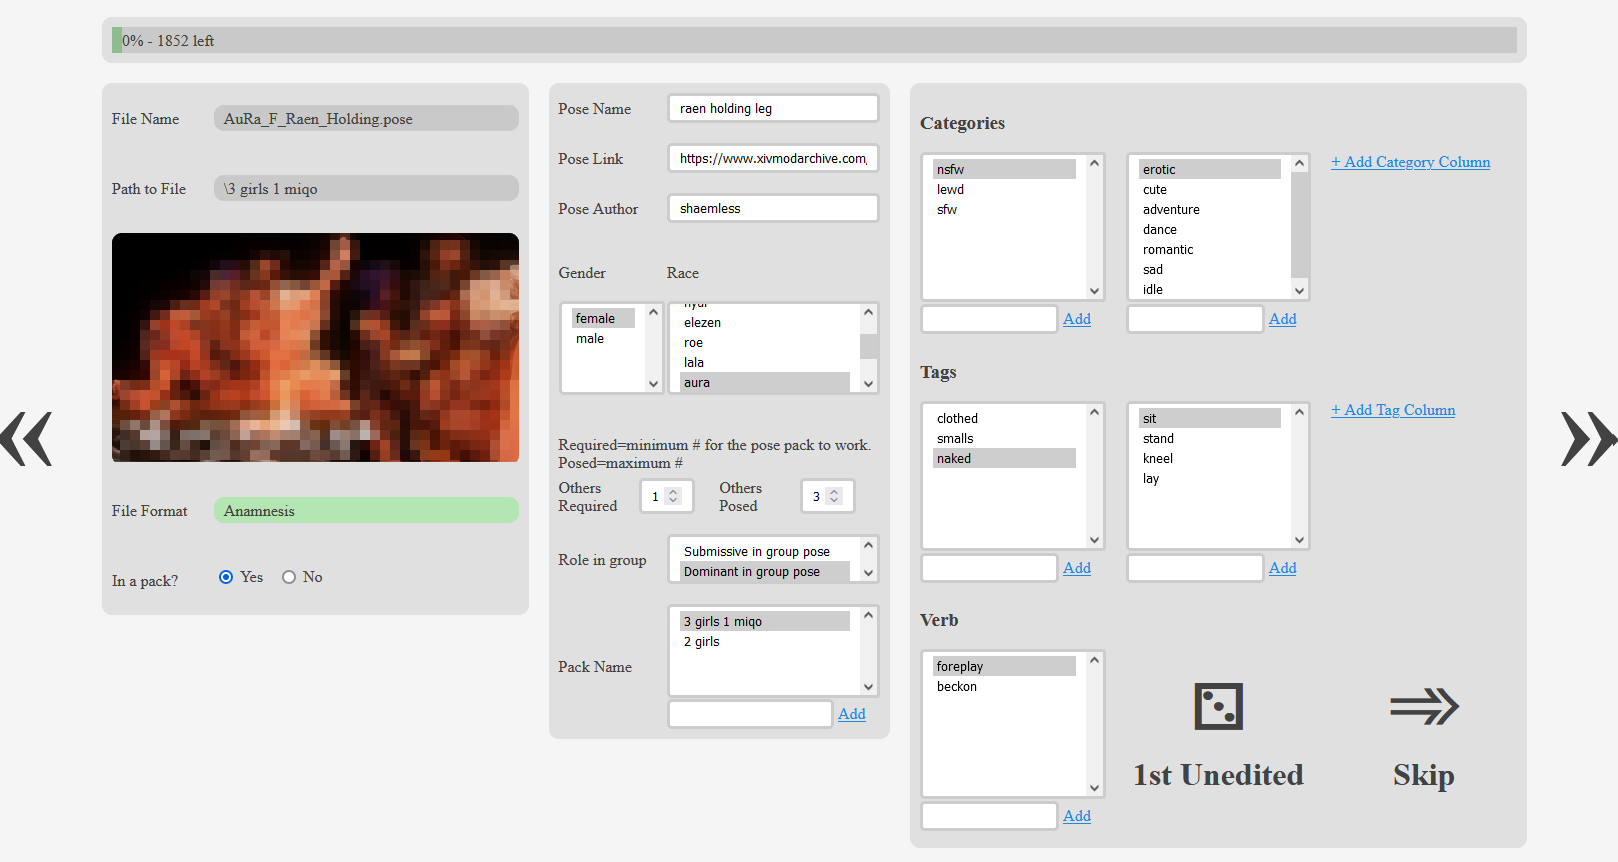
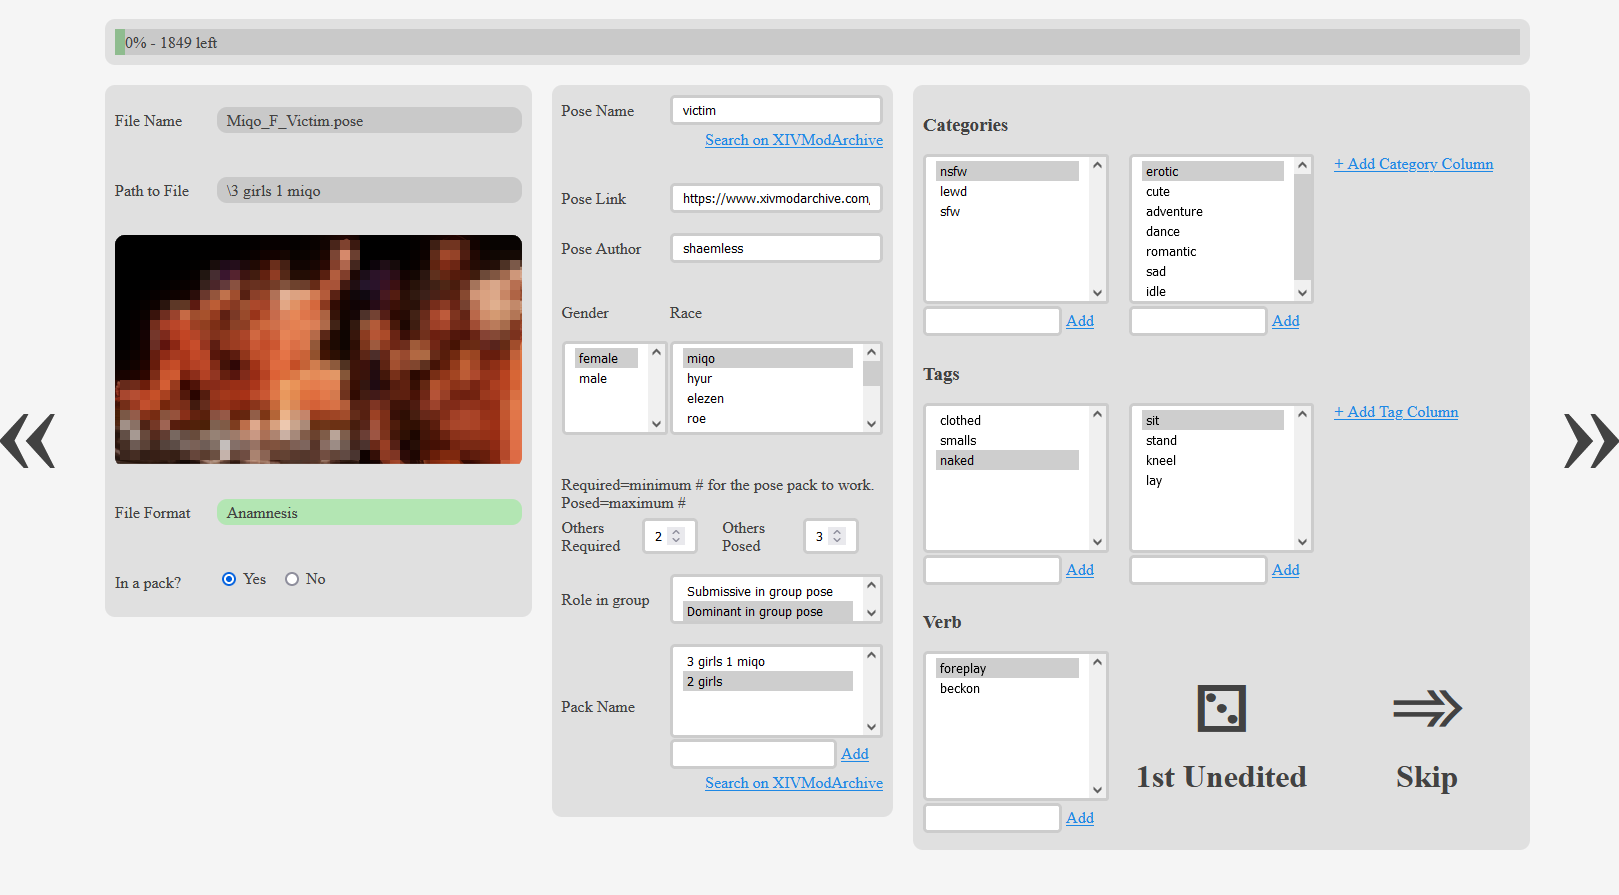
Add XIVModArchive search link for pack names as well

diff --git a/web/assets/js/work_through.js b/web/assets/js/work_through.js
@@ -270,12 +270,19 @@ body.on('input', 'input, select', function () {
 
 // Update XIVMA search link
 body.on('input', 'input[name="name"]', function () {
-  update_search_link();
+  update_search_link('xivma_search', 'input[name="name"]');
+});
+body.on('input', 'select[name="pack_names"]', function () {
+  update_search_link('xivma_pack_search', 'select[name="pack_names"]');
 });
 
-function update_search_link() {
-  body.find('a[id="xivma_search"]').attr(
+function update_search_link(link, input) {
+  let value = body.find(input).val();
+  if (input.startsWith('select'))
+    value = body.find(input).find('option:selected').text();
+
+  body.find('a[id="' + link + '"]').attr(
     'href',
-    body.find('a[id="xivma_search"]').data('link') + body.find('input[name="name"]').val()
+    body.find('a[id="' + link + '"]').data('link') + value
   );
 }

diff --git a/web/templates/work_through.php b/web/templates/work_through.php
@@ -195,6 +195,15 @@ if (!$pose->pack)
         </a>
       </label>
     </div>
+    <div class="pack-dependent"></div>
+    <div style="text-align:right;position:relative;top:-15px"
+         class="pack-dependent">
+      <a href="" target="_blank"
+         id="xivma_pack_search"
+         data-link="https://www.xivmodarchive.com/search?types=14%2C11%2C5%2C13%2C6&basic_text=">
+        Search on XIVModArchive
+      </a>
+    </div>
   </div>
 
   <div id="tags">
@@ -336,7 +345,8 @@ if (!$pose->pack)
 </div>
 
 <script>
-  update_search_link();
+  update_search_link('xivma_search', 'input[name="name"]');
+  update_search_link('xivma_pack_search', 'select[name="pack_names"]');
 
   if (typeof fileInput === 'undefined') {
     // Handle pasting of images
